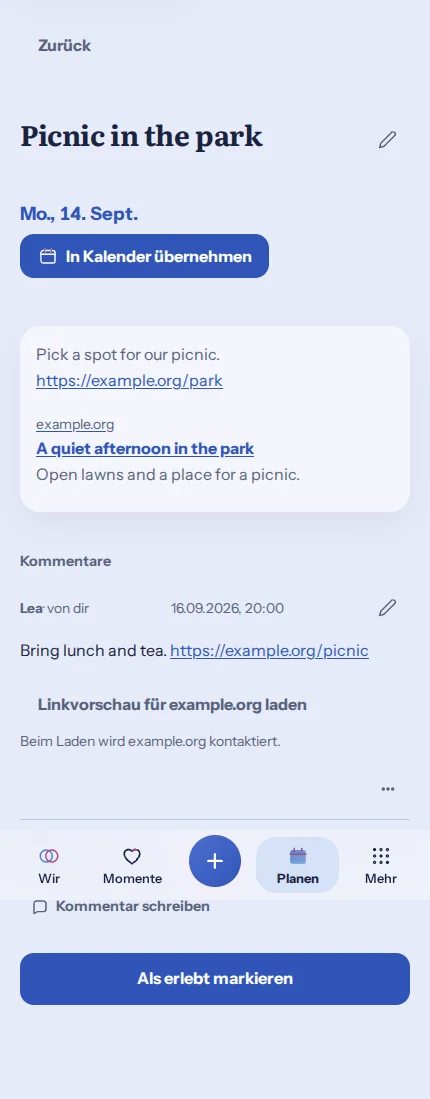
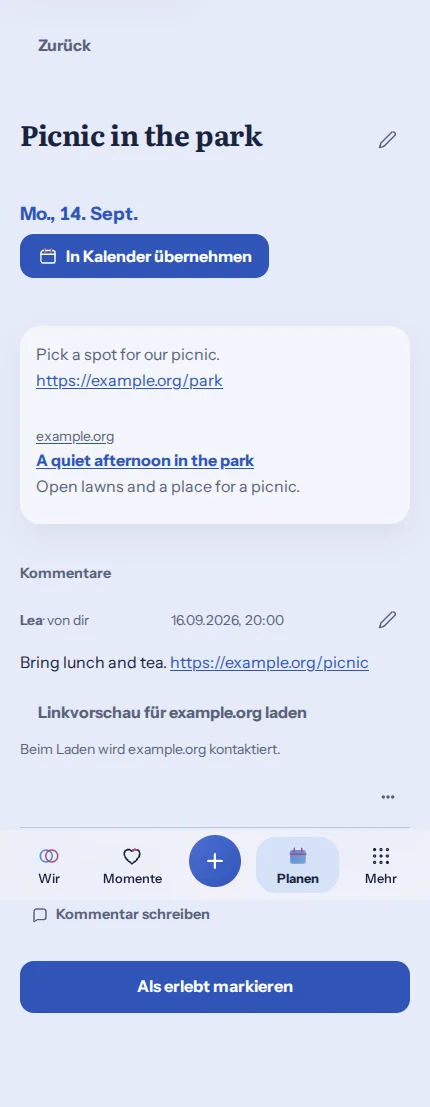
fix: preserve comment markup and cover new routes in the tenant matrix

diff --git a/web/src/components/PlanningReference.css b/web/src/components/PlanningReference.css
@@ -206,6 +206,24 @@
   color: var(--color-brand-text);
 }
 
+/* Shared discussion keeps the Plan's one-column reading width at large text. */
+.planen-detail,
+.plan-discussion .comments-panel {
+  min-width: 0;
+  grid-template-columns: minmax(0, 1fr);
+}
+
+.plan-discussion .comment-head > * {
+  min-width: 0;
+  overflow-wrap: anywhere;
+}
+
+.planen-detail-summary > * {
+  min-width: 0;
+  max-width: 100%;
+  overflow-wrap: anywhere;
+}
+
 /* Detail: pills + meta summary row (kept as a `.planning-facts` child so the
  * existing SharedPlanningSanctuary single-column detail-grid rule and the
  * completed-celebration treatment keep applying; only the inner look is
@@ -739,22 +757,4 @@
 .planen-complete-form input {
   min-inline-size: 0;
   inline-size: 100%;
-}
-
-/* Shared discussion keeps the Plan's one-column reading width at large text. */
-.planen-detail,
-.plan-discussion .comments-panel {
-  min-width: 0;
-  grid-template-columns: minmax(0, 1fr);
-}
-
-.plan-discussion .comment-head > * {
-  min-width: 0;
-  overflow-wrap: anywhere;
-}
-
-.planen-detail-summary > * {
-  min-width: 0;
-  max-width: 100%;
-  overflow-wrap: anywhere;
 }

diff --git a/web/src/components/AuthoredText.css b/web/src/components/AuthoredText.css
@@ -1,20 +1,20 @@
 .authored-text {
   min-width: 0;
   overflow-wrap: anywhere;
-}
-
-.authored-text > p {
   margin: 0;
   white-space: pre-wrap;
 }
 
-.authored-text a {
+.authored-text a,
+.authored-link-preview a {
   color: var(--color-link-text);
   text-decoration: underline;
   text-underline-offset: 0.15em;
 }
 
 .authored-link-preview {
+  min-width: 0;
+  overflow-wrap: anywhere;
   display: grid;
   gap: var(--space-1);
   margin-top: var(--space-3);
@@ -40,4 +40,8 @@
   white-space: normal;
   overflow-wrap: anywhere;
   text-align: start;
+}
+
+.comment-card > .authored-link-preview {
+  margin-top: 0;
 }

diff --git a/web/src/components/AuthoredText.tsx b/web/src/components/AuthoredText.tsx
@@ -139,8 +139,8 @@ export function AuthoredText({
     .filter((url) => url.startsWith('https://'))
     .slice(0, 3);
   return (
-    <div className="authored-text">
-      <p>{parts}</p>
+    <>
+      <p className="authored-text">{parts}</p>
       {previewApi && spaceId
         ? previews.map((url) => (
             <LinkPreview
@@ -152,6 +152,6 @@ export function AuthoredText({
             />
           ))
         : null}
-    </div>
+    </>
   );
 }

diff --git a/backend/tests/integration/test_endpoint_matrix.py b/backend/tests/integration/test_endpoint_matrix.py
@@ -543,6 +543,22 @@ SPACE_ENDPOINTS: tuple[Endpoint, ...] = (
     ),
     Endpoint(
         "GET",
+        "/api/v1/spaces/{spaceId}/plans/{planId}/comments",
+        resource_absence="COMMENT_TARGET_NOT_AVAILABLE",
+    ),
+    Endpoint(
+        "POST",
+        "/api/v1/spaces/{spaceId}/plans/{planId}/comments",
+        body=COMMENT,
+        resource_absence="COMMENT_TARGET_NOT_AVAILABLE",
+    ),
+    Endpoint(
+        "POST",
+        "/api/v1/spaces/{spaceId}/link-preview",
+        body={"url": "https://example.org/park"},
+    ),
+    Endpoint(
+        "GET",
         "/api/v1/spaces/{spaceId}/memories/{memoryId}/comments",
         resource_absence="COMMENT_TARGET_NOT_AVAILABLE",
     ),

diff --git a/docs/product/design/evidence/1583-plan-comments-links/README.md b/docs/product/design/evidence/1583-plan-comments-links/README.md
@@ -1,6 +1,6 @@
 # Plan comments and authored links — runtime evidence
 
-Issue [#1583](https://github.com/baerenmarke90/eimir/issues/1583). Runtime and executable journey source: `743b939f085d3f6be2fd7c80508b7a43c8d34cb1`. Independent base: main `26369e5d54f91fe63c180b5bc6d47cba6a8b4900`; the earlier voice-feedback PR #1582 is unchanged.
+Issue [#1583](https://github.com/baerenmarke90/eimir/issues/1583). Original branch runtime and executable journey source: `743b939f085d3f6be2fd7c80508b7a43c8d34cb1`. Independent base: main `26369e5d54f91fe63c180b5bc6d47cba6a8b4900`; the earlier voice-feedback PR #1582 is unchanged.
 
 The [generated preflight](../../references/1583-plan-comments-links/README.md) was committed and linked in the issue before UI code. R3 / Detail View retain the intention, schedule/calendar, optional gallery/place, editing, completion and canonical return. Conversation follows the description with a readable heading, contextual inline composer and author-only actions. No extra chat/navigation surface. A started reply survives opening/cancelling Plan edit; offline attempts are never queued.
 
@@ -42,3 +42,15 @@ Links are immediately openable; an explicit preview action discloses the host be
 At most three distinct HTTPS preview choices per text avoid flooding dense conversations. An existing durable account rate limit allows 30 deliberate preview requests per 15 minutes. Preview metadata has no persistent cache and uses private/no-store responses; URLs/content do not enter logs, events or analytics. Account/Space/content/offline transitions discard late feedback.
 
 Business/freemium impact reviewed: shared Planning, comments and safe text links/previews are Free/Core, identical in Cloud/Self-Hosted. The feature matrix explicitly records Plans and previews; no entitlement, provider subscription, storage quota or artificial Self-Hosted restriction. All migration, API/client, security, privacy, provenance and CI gates remain mandatory.
+
+## Final CI and combined-change verification
+
+The original hosted PostgreSQL run passed all new Plan-specific cases; the central completeness test correctly rejected three missing matrix registrations. All three routes are now explicit SPACE_ENDPOINTS entries, retaining the strict contract equality and adding the common anonymous/foreign-Space and unavailable-parent negative cases. The pure completeness check passes locally; the new negative cases still require fresh hosted PostgreSQL execution.
+
+Hosted browser QA also exposed a legacy `.comment-card > p` contract broken by an unnecessary renderer wrapper. The renderer now emits the original paragraph directly, alongside optional inert previews. The existing browser assertions were preserved. All **12 existing offline create/edit/delete journeys pass** with the correction. No manual workflow rerun was used; the runner's configured retry reproduced the same deterministic selector failure before the source fix.
+
+Scoped Plan sizing rules were relocated beside the existing detail rules, with the same selectors and values, to avoid an append-at-end conflict with #1582's Wish scope styling. Local Git merge-tree verification combines #1582 (`c9ba6d62c0cd8a008a8024dd908b68124ec2f3be`), the corrected #1584 patch and #1587 (`4374ddf6585b02f71b2aed5e9c0050bd4507078b`) without conflicts. This is a local verification tree, not a merge or release of any pull request.
+
+Final combined runtime/test tree: `a7a404718fe61d836bd2b28bd5c97c39c46f0ee3`. On that composition, **26/26 actual browser journeys pass** (12 existing offline comments, 6 HeartMoment reading/edit/return and 8 Plan discussion/preview journeys), with **79/79 focused component tests**, TypeScript, actual ASGI OpenAPI drift and the strict endpoint completeness check passing. The seven Plan captures above were refreshed from this final combined runtime; unchanged external/provider/physical-device evidence limits apply.
+
+The optional additional combined full-unit rerun could not be verified locally: automatic approval review rejected its process-output connection because it could not establish that possible external test traffic was non-sensitive. No bypass or manual workflow rerun was used. Previously completed full suites, the final 79 focused tests and 26 browser journeys remain the local evidence; the final revision's normal hosted CI must supply the remaining full-suite/negative-matrix result.
